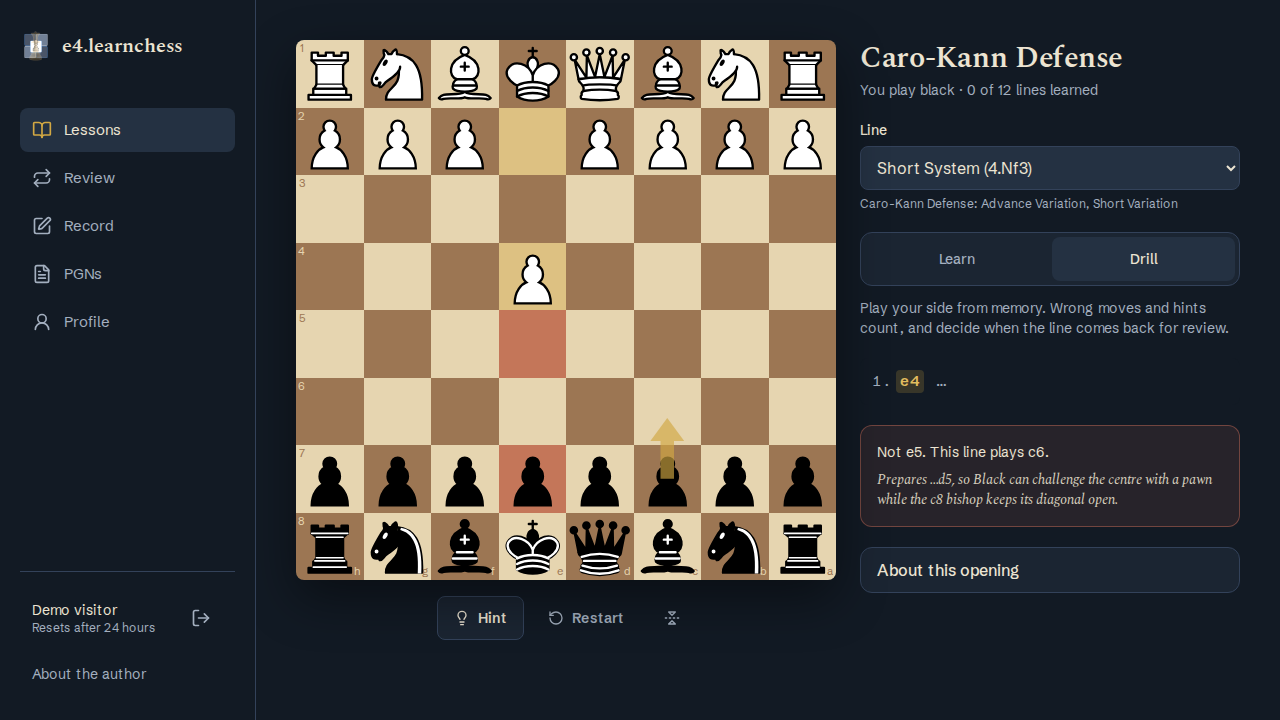
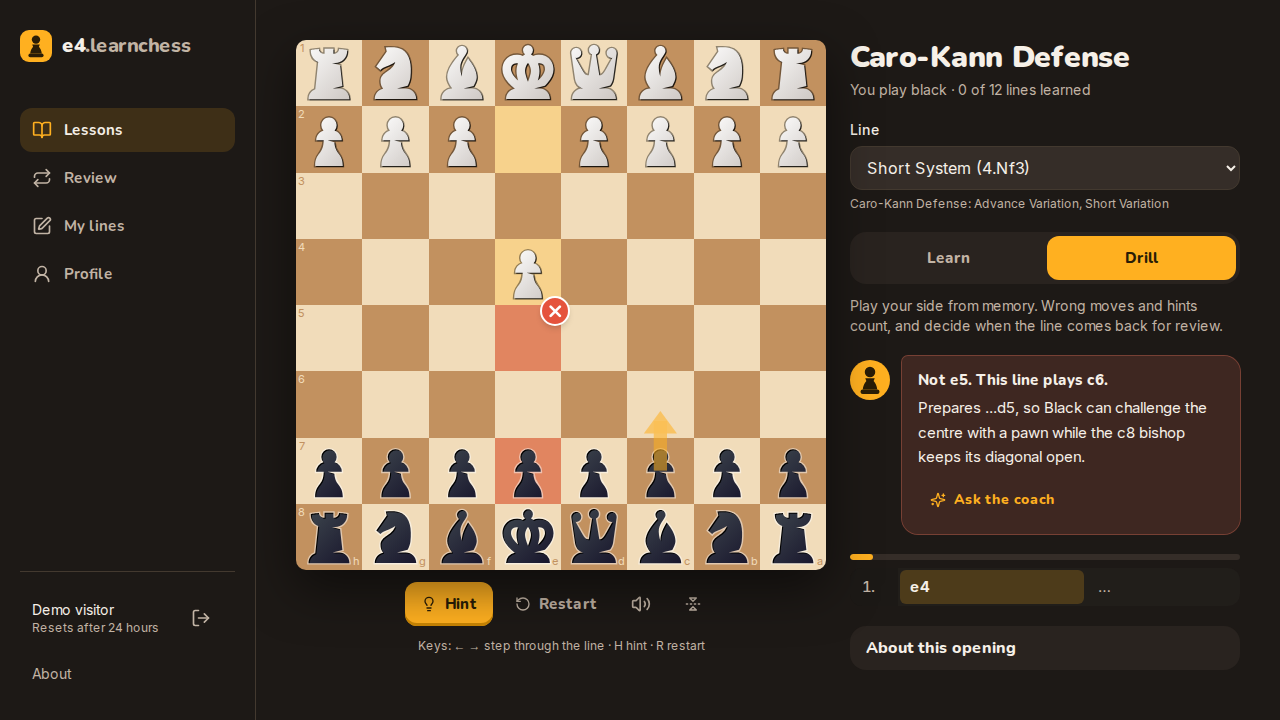
docs: refresh README, media, social preview and portfolio card for the redesign

diff --git a/web/e2e/media.spec.ts b/web/e2e/media.spec.ts
@@ -92,3 +92,16 @@ test("mobile screenshot", async ({ browser }) => {
   await page.screenshot({ path: "../docs/media/mobile-lesson.png" });
   await context.close();
 });
+
+test("social preview", async ({ browser }) => {
+  // 1280x640 is GitHub's social preview size; reduced motion stills the hero board.
+  const context = await browser.newContext({
+    viewport: { width: 1280, height: 640 },
+    reducedMotion: "reduce",
+  });
+  const page = await context.newPage();
+  await page.goto("/");
+  await page.waitForLoadState("networkidle");
+  await page.screenshot({ path: "../docs/media/social-preview.png" });
+  await context.close();
+});

diff --git a/README.md b/README.md
@@ -15,7 +15,9 @@ Learn chess openings by playing them, not watching them. Annotated opening cours
   - If your move belongs to a different line of the course, it tells you which one.
   - Hints are allowed but count as mistakes.
 - **Review (spaced repetition):** a clean drill pushes the next review out (1 → 3 → 7 → 14 → 30 days); any mistake brings the line back tomorrow. The dashboard and the Review tab show what's due.
-- **Your own lines:** record a line by playing it on the board, or paste a PGN (headers, comments and variations are fine). Both can be drilled like course lines.
+- **AI coach (optional):** "Ask the coach" gives a playful take on any course move or wrong attempt, from an open-weight model on Groq's free tier. It only builds on the checked note, never replaces it, and says so. Without a key, e4 simply shows the note.
+- **Feel:** e4's own look (a warm dark palette, Nunito and Inter), licensed piece sets, three board themes, and a synthesised sound set with mute and volume. ✓/✗ badges and legal-move dots show on the board.
+- **My lines:** save a line by playing it on the board, or paste a PGN (headers, comments and variations are fine). Both can be drilled like course lines.
 - **Contribute** openings and lines; an admin approves them before they go public.
 - **Works on a phone:** bottom tabs, a board that fits the screen, and tap-to-move as well as drag.
 
@@ -84,6 +86,10 @@ The seed refuses to write to anything but a local database unless you confirm th
 | `PROXY_SECRET` | yes in prod | | Same value as the web app's. Lets the API trust the visitor IP the proxy forwards for rate limits |
 | `TRUST_PROXY_HOPS` | no | `0` | Proxies in front of the API, for requests that skip the web proxy. `1` on Render |
 | `NODE_ENV` | prod | | `production` turns on `Secure` cookies |
+| `COACH_API_KEY` | no | | Enables the AI coach. A free key from console.groq.com works |
+| `COACH_API_URL` | no | Groq's OpenAI-compatible URL | Any OpenAI-compatible chat API |
+| `COACH_MODEL` | no | `llama-3.1-8b-instant` | An open-weight model the provider hosts |
+| `COACH_DAILY_LIMIT` | no | `500` | Model calls per day; then the coach shows the note |
 
 **Web** (`web/.env.local`)
 
@@ -102,8 +108,8 @@ npm run test:e2e --prefix web      # Playwright: builds and starts both apps on 
 
 The first Playwright run needs a browser: `npx --prefix web playwright install chromium`. It also expects the seeded courses in the local `e4` database.
 
-- **API (29 unit, 49 e2e):** the admin role on every admin route, ownership checks, the demo login, refresh-token rotation, rate limits (including the proxy's IP forwarding), input validation, contributions and cascades, and spaced-repetition scheduling.
-- **Web (23 Playwright):** demo login; learn notes; drill corrections; a clean drill that shows up in Review and on the dashboard; PGN import; no sideways scroll and 44 px tap targets at 375, 768 and 1280 px; and a regression test for a bug where navigating away mid-request logged you out.
+- **API (33 unit, 54 e2e):** the admin role on every admin route, ownership checks, the demo login, refresh-token rotation, rate limits (including the proxy's IP forwarding), input validation, contributions and cascades, spaced-repetition scheduling, and the AI coach (prompt built from stored facts only, shared cache, daily cap, fallback) against a stub provider.
+- **Web (26 Playwright):** demo login; the coach's fallback; learn notes; drill corrections; a clean drill that shows up in Review and on the dashboard; PGN import; no sideways scroll and 44 px tap targets at 375, 768 and 1280 px; and a regression test for a bug where navigating away mid-request logged you out.
 
 README media is recorded by `MEDIA=1 npx playwright test e2e/media.spec.ts`.
 
@@ -113,17 +119,22 @@ Lighthouse 12, mobile preset, local production build:
 
 | Page | Performance | Accessibility | Best practices | SEO |
 |---|---|---|---|---|
-| Landing | 76 | 100 | 100 | 100 |
-| Login | 75 | 100 | 100 | 100 |
-| Lesson (signed in) | 51 | 100 | 100 | 100 |
+| Landing | 83 | 100 | 100 | 100 |
+| Login | 87 | 100 | 100 | 100 |
+| Lesson (signed in) | 73 | 100 | 100 | 91 |
 
-The performance scores use Lighthouse's default simulated throttling; with real (DevTools) throttling the landing page scores 87. The lesson page is slowest on a first visit because it waits for the session check before loading the course. Returning visitors skip that wait. Shared JavaScript is 103 kB.
+The scores use Lighthouse's default simulated throttling. The lesson page's SEO score is a Lighthouse artefact: Next.js streams metadata on dynamic routes for regular browsers, while search bots get it up front. Shared JavaScript is 103 kB.
 
 ## Known limitations
 
 - The API runs on Render's free tier, which sleeps after 15 minutes idle. A ping every 10 minutes keeps it awake; if one is missed, the first request takes about a minute.
 - Only two courses so far. The notes are short explanations of ideas, not deep analysis.
 - There's no engine or game analysis in the app; it trains opening lines only.
+- The AI coach is extra flavour on top of checked notes. A small model can still be wrong, and the app labels it that way.
+
+## Credits
+
+e4 is MIT-licensed. The piece sets are papercut by Nikolay Anzarov (CC BY 4.0) and chessnut by Alexis Luengas (Apache-2.0), both from Lichess's list of free sets, with licence files in [`web/public/pieces`](web/public/pieces). Opening names come from Lichess's CC0 [chess-openings](https://github.com/lichess-org/chess-openings) dataset. The fonts are Nunito and Inter (SIL OFL). The sounds are synthesised for e4 by [`web/scripts/render-sounds.mjs`](web/scripts/render-sounds.mjs).
 
 ## License
 

diff --git a/docs/PORTFOLIO.md b/docs/PORTFOLIO.md
@@ -12,7 +12,8 @@ An opening trainer that teaches chess openings by playing them: annotated lines,
 
 - Two annotated courses (Caro-Kann for Black, Jobava London for White), 21 lines. Every move you play is explained. Lines are drilled from memory and come back on a 1/3/7/14/30-day spaced-repetition schedule.
 - Next.js 15 + NestJS 11 + MongoDB. JWT auth with rotating refresh tokens, served through a same-origin proxy so cookies are first-party and rate limits are per visitor.
-- 101 automated tests (29 API unit, 49 API end-to-end, 23 Playwright). Lighthouse mobile: 100 accessibility, best practices and SEO. $0 hosting on Vercel, Render and Atlas free tiers.
+- An optional AI coach (an open-weight model on Groq's free tier) jokes about your moves, but only builds on the checked notes, with a shared cache and a hard daily cap.
+- 113 automated tests (33 API unit, 54 API end-to-end, 26 Playwright). Lighthouse mobile: accessibility 100 on every page measured. $0 hosting on Vercel, Render and Atlas free tiers.
 
 Links: live demo https://e4-learnchess.vercel.app (one-click demo account) · code https://github.com/masabinhok/e4
 
@@ -24,6 +25,10 @@ Links: live demo https://e4-learnchess.vercel.app (one-click demo account) · co
 - **Learn** steps through a line with the notes.
 - **Drill** makes you play your side from memory. A wrong move shows the right one and why; if your move belongs to another line of the course, it says which one.
 - **Review** brings lines back on a Leitner schedule: 1, 3, 7, 14, then 30 days, and back to tomorrow after any mistake.
+
+**Design.** e4 has its own identity: a warm dark palette, Nunito and Inter, a hand-built logo, licensed piece sets (papercut, chessnut), and a sound set synthesised for the app. The original sounds turned out to be copied from chess.com and were replaced. Drills show ✓/✗ badges on the board and a coach panel that explains every move.
+
+**AI coach.** "Ask the coach" sends only database facts to the model: the opening, the line, the move, the checked note, and the learner's wrong move if any. The browser can't send free text, so the key can't be abused as a chatbot. Replies are cached per situation and shared by everyone, a daily cap keeps it inside the free tier, and without a key or after an error the app shows the checked note.
 
 **Content quality.** Tests replay every line in chess.js and check that each learner move has a note. They also compare every opening name with Lichess's open dataset by position; that check caught two of my own mislabels. A dev-only script asks Lichess's cloud engine about every learner move: 0 flags across the 21 lines.
 
@@ -39,11 +44,10 @@ Links: live demo https://e4-learnchess.vercel.app (one-click demo account) · co
 - The UI was rebuilt mobile-first: bottom tabs, a board that sizes itself, tap-to-move. Playwright checks every page at 375, 768 and 1280 px for sideways scroll and 44 px tap targets.
 
 **Numbers.**
-- Tests: 29 API unit, 49 API end-to-end, 23 Playwright.
-- Lighthouse 12, mobile, accessibility / best practices / SEO: 100 / 100 / 100 on the landing, login and lesson pages.
-- Lighthouse performance: 76 on landing with simulated throttling, 87 with DevTools throttling.
+- Tests: 33 API unit, 54 API end-to-end, 26 Playwright.
+- Lighthouse 12, mobile (simulated throttling), performance / accessibility: landing 83 / 100, login 87 / 100, signed-in lesson 73 / 100. Best practices 100 on all three.
 - Shared JavaScript: 103 kB.
 - Hosting cost: $0.
 - The free API instance sleeps when idle; the cold start measured during the audit was 52.6 s. [Confirm the 10-minute keep-alive ping is running before claiming the API stays warm.]
 
-**What I'd do next.** More courses, an engine for analysing your own games, and streaks and reminders.
+**What I'd do next.** The Slav and Italian courses (in progress), an engine for analysing your own games, and streaks and reminders.
